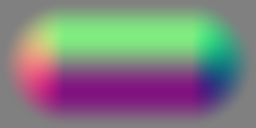
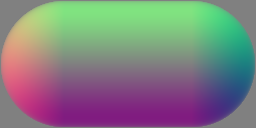
feat(ui): refract the scene through clear glass while preserving foreground ink

diff --git a/src/glass-controls.css b/src/glass-controls.css
@@ -1,7 +1,6 @@
-/* Last material layer: optical controls in either theme, with independently
-   bounded caps for glyph refraction. Information cards never get overlays. */
-:root { --control-glass-fill: rgb(250 255 253 / .07); --control-glass-edge: rgb(255 255 255 / .96); }
-html[data-theme='dark'] { --control-glass-fill: rgb(32 60 70 / .12); --control-glass-edge: rgb(224 255 248 / .72); }
+/* Clear convex material: the scene bends behind the surface; ink stays above it. */
+:root { --control-glass-fill: rgb(255 255 255 / .08); --control-glass-edge: rgb(255 255 255 / .85); }
+html[data-theme='dark'] { --control-glass-fill: rgb(24 40 45 / .14); --control-glass-edge: rgb(245 255 252 / .6); }
 :is(html:root #root,body .choice-picker-layer) [data-glass-content] {
   -webkit-backdrop-filter: none; backdrop-filter: none; filter: none;
   background-image: none; box-shadow: none;
@@ -10,18 +9,15 @@ html[data-theme='dark'] { --control-glass-fill: rgb(32 60 70 / .12); --control-g
   color: var(--glass-ink);
   border-radius: var(--control-glass-radius,999px);
   background-color: var(--control-glass-fill);
-  background-image: radial-gradient(ellipse at 24% -40%,rgb(255 255 255 / .16),transparent 64%),
-    linear-gradient(165deg,rgb(255 255 255 / .06),transparent 40% 76%,rgb(255 255 255 / .05));
-  border: 1px solid var(--glass-border);
-  box-shadow: inset 0 2px 2px -1px var(--control-glass-edge),
-    inset 2px 0 3px -2px var(--control-glass-edge),
-    inset -1px -2px 3px -2px var(--control-glass-edge),inset 0 -5px 6px -5px var(--control-glass-edge),
-    0 2px 2px rgb(12 35 35 / .2),0 7px 13px -6px rgb(12 35 35 / .35);
-  -webkit-backdrop-filter: var(--glass-lens-filter,blur(1px) saturate(1.08));
-  backdrop-filter: var(--glass-lens-filter,blur(1px) saturate(1.08));
+  background-image: linear-gradient(165deg,rgb(255 255 255 / .16),rgb(255 255 255 / .025) 38% 70%,rgb(255 255 255 / .1));
+  border: 1px solid color-mix(in srgb,var(--control-glass-edge) 65%,var(--glass-border));
+  box-shadow: inset 0 1px 1px var(--control-glass-edge),
+    inset 1px 0 1px rgb(255 255 255 / .3),inset 0 -1px 1px rgb(15 36 37 / .14),
+    0 1px 2px rgb(12 35 35 / .06),0 5px 12px -6px rgb(12 35 35 / .22);
+  -webkit-backdrop-filter: var(--glass-lens-filter,saturate(1)) blur(.65px) saturate(1.04);
+  backdrop-filter: var(--glass-lens-filter,saturate(1)) blur(.65px) saturate(1.04);
 }
-/* Refraction belongs to the backdrop. Keep idle text out of the sampling pass;
-   a shallow optical cap is only visible during direct interaction. */
+/* A reflection may cross the surface, but no optical overlay samples the label. */
 html:root #root [data-glass-position='relative'] { position: relative; }
 html:root #root [data-glass-control][data-glass-face] {
   isolation: isolate;
@@ -74,10 +70,9 @@ html:root #root .hj-menu-trigger[data-glass-control] {
   --control-glass-fill: rgb(250 255 253 / .09);
   background-color: var(--control-glass-fill);
   border-color: rgb(210 233 231 / .7);
-  box-shadow: inset 0 2px 2px -1px var(--control-glass-edge),
-    inset 1px 0 2px rgb(255 255 255 / .5),
-    inset -1px -2px 3px -2px rgb(145 196 190 / .65),
-    0 2px 3px rgb(12 35 35 / .16), 0 7px 14px -7px rgb(12 35 35 / .32);
+  box-shadow: inset 0 1px 1px var(--control-glass-edge),
+    inset 1px 0 1px rgb(255 255 255 / .3),inset 0 -1px 1px rgb(15 36 37 / .14),
+    0 1px 2px rgb(12 35 35 / .06),0 5px 12px -6px rgb(12 35 35 / .22);
   transition: scale 420ms cubic-bezier(.2,1.5,.35,1), box-shadow 200ms ease;
 }
 html:root #root .hj-menu-trigger[data-glass-control]:is(:hover,.is-open) {
@@ -100,20 +95,19 @@ html[data-theme='dark']:root #root .hj-menu-trigger[data-glass-control] {
   }
 }
 
-/* RGB splitting and colored rim light are transient; the idle lens stays clear. */
+/* Input deepens background refraction; the light stays neutral like clear glass. */
 html:root #root [data-glass-control][data-glass-interacting]:not([data-glass-exclude]) {
-  -webkit-backdrop-filter: var(--glass-lens-active-filter,none);
-  backdrop-filter: var(--glass-lens-active-filter,none);
+  -webkit-backdrop-filter: var(--glass-lens-active-filter,saturate(1)) blur(.65px) saturate(1.04);
+  backdrop-filter: var(--glass-lens-active-filter,saturate(1)) blur(.65px) saturate(1.04);
 }
 html:root #root [data-glass-control][data-glass-face][data-glass-interacting] {
-  -webkit-backdrop-filter: var(--glass-lens-active-filter,none);
-  backdrop-filter: var(--glass-lens-active-filter,none);
+  -webkit-backdrop-filter: var(--glass-lens-active-filter,saturate(1)) blur(.65px) saturate(1.04);
+  backdrop-filter: var(--glass-lens-active-filter,saturate(1)) blur(.65px) saturate(1.04);
 }
 html:root #root [data-glass-control][data-glass-face][data-glass-interacting]::after {
-  -webkit-backdrop-filter: var(--glass-face-active-filter,none);
-  backdrop-filter: var(--glass-face-active-filter,none);
-  background: radial-gradient(ellipse at 14% 12%,rgb(155 215 229 / .12),transparent 35%),
-    radial-gradient(ellipse at 88% 92%,rgb(239 200 172 / .10),transparent 32%);
+  -webkit-backdrop-filter: none;
+  backdrop-filter: none;
+  background: radial-gradient(ellipse at 24% -15%,rgb(255 255 255 / .06),transparent 60%);
 }
 /* Transaction actions need a stable contrast pair even when the common glass
    material loads after wallet styles. Their labels never pass through a lens. */

diff --git a/src/components/ui/LiquidTabList.css b/src/components/ui/LiquidTabList.css
@@ -35,15 +35,14 @@
 #root .liquid-tabs > button[role='tab']:disabled { opacity: .4; cursor: not-allowed; }
 #root .liquid-tabs > .liquid-tabs__lens {
   position: absolute; left: 0; top: 0; pointer-events: none;
-  z-index: 3;
+  z-index: 1;
   box-sizing: border-box; border-radius: 999px; transform-origin: center; scale: 1; border: 1px solid #ffffff9c;
   background: radial-gradient(ellipse at var(--lens-light-x,22%) -40%,#ffffff10,transparent 63%),
     linear-gradient(165deg,#ffffff04,transparent 42% 82%,#ffffff08);
-  box-shadow: inset 0 1px 1px #ffffffb8, inset 1px 0 2px -1px #e1fffaa0,
-    inset -1px -1px 2px -1px #ffffff85, inset 0 -3px 4px -3px #ffffff90,
-    0 2px 2px #082e273d, 0 5px 9px -4px #082e2766;
-  -webkit-backdrop-filter: none;
-  backdrop-filter: none;
+  box-shadow: inset 0 1px 1px #ffffffcc,inset 1px 0 1px #ffffff50,
+    inset 0 -1px 1px #082e2724,0 3px 8px -4px #082e2738;
+  -webkit-backdrop-filter: var(--glass-lens-filter,saturate(1)) blur(.65px) saturate(1.04);
+  backdrop-filter: var(--glass-lens-filter,saturate(1)) blur(.65px) saturate(1.04);
 }
 #root .liquid-tabs[data-lens-ready] > .liquid-tabs__lens {
   transition: transform 460ms var(--glass-spring,cubic-bezier(.2,.8,.2,1)),width 460ms var(--glass-spring,cubic-bezier(.2,.8,.2,1)),height 260ms ease,scale 300ms var(--glass-spring,cubic-bezier(.2,.8,.2,1));
@@ -75,17 +74,16 @@ html[data-theme='dark'] #root .liquid-tabs { --tabs-track: #214a43; --tabs-track
 /* The lens only rises above the rail during a press, drag or click pulse. */
 #root .liquid-tabs[data-lens-engaged] > .liquid-tabs__lens {
   scale: 1.025 1.1;
-  -webkit-backdrop-filter: var(--glass-lens-active-filter,saturate(1.08));
-  backdrop-filter: var(--glass-lens-active-filter,saturate(1.08));
-  box-shadow: inset 0 1px 2px #ffffffb8,inset -1px -2px 3px -2px #ffffff90,
-    0 3px 3px #092c2738,0 8px 16px -6px #092c2760;
+  -webkit-backdrop-filter: var(--glass-lens-active-filter,saturate(1)) blur(.65px) saturate(1.04);
+  backdrop-filter: var(--glass-lens-active-filter,saturate(1)) blur(.65px) saturate(1.04);
+  box-shadow: inset 0 1px 1px #ffffffdd,inset 0 -1px 1px #082e2730,0 5px 12px -5px #092c2745;
 }
 #root .liquid-tabs[data-lens-dragging] > .liquid-tabs__lens { transition: scale 180ms ease; }
 @media(prefers-reduced-motion:reduce) {
   #root .liquid-tabs[data-lens-engaged] > .liquid-tabs__lens { scale: 1; }
 }
 
-/* Reflections are restrained so refracted glyphs stay readable through the clear core. */
+/* Neutral rim glints follow the curved surface, below the label plane. */
 #root .liquid-tabs__lens::before {
   content: ''; position: absolute; inset: 0; border-radius: inherit; pointer-events: none;
   border: 1px solid transparent; border-top-color: #ffffff9c; border-left-color: #ffffff3d; border-right-color: #ffffff20;
@@ -102,15 +100,16 @@ html[data-theme='dark'] #root .liquid-tabs { --tabs-track: #214a43; --tabs-track
 }
 
 #root .liquid-tabs > .liquid-tabs__lens[data-glass-interacting] {
-  -webkit-backdrop-filter: var(--glass-lens-active-filter,none);
-  backdrop-filter: var(--glass-lens-active-filter,none);
+  -webkit-backdrop-filter: var(--glass-lens-active-filter,saturate(1)) blur(.65px) saturate(1.04);
+  backdrop-filter: var(--glass-lens-active-filter,saturate(1)) blur(.65px) saturate(1.04);
 }
 #root .liquid-tabs[data-lens-engaged] > .liquid-tabs__lens::before,
 #root .liquid-tabs > .liquid-tabs__lens[data-glass-interacting]::before {
-  background: radial-gradient(ellipse 44% 3px at var(--lens-light-x,22%) 0%,#d9f6ff70,transparent),
-    radial-gradient(ellipse 35% 3px at 78% 100%,#ffe6cd40,transparent);
+  background: radial-gradient(ellipse 44% 3px at var(--lens-light-x,22%) 0%,#ffffff90,transparent),
+    radial-gradient(ellipse 35% 3px at 78% 100%,#ffffff38,transparent);
 }
 @media(forced-colors:active),(prefers-reduced-transparency:reduce),(prefers-contrast:more) {
+  #root .liquid-tabs > .liquid-tabs__lens,
   #root .liquid-tabs > .liquid-tabs__lens[data-glass-interacting],
   #root .liquid-tabs[data-lens-engaged] > .liquid-tabs__lens {
     -webkit-backdrop-filter: none; backdrop-filter: none;

diff --git a/src/components/ui/LiquidGlassEffects.tsx b/src/components/ui/LiquidGlassEffects.tsx
@@ -10,8 +10,8 @@ import { nearestLensRatio } from './glassLensGeometry'
 import { createGlassLensFilters } from './glassLensFilters'
 
 const maps = { 1: circleMap, 2: shortMap, 3: lensMap, 4: longMap, 6: wideMap, 10: rowMap }
-// Backdrops and optional transparent caps sample real pixels. Foreground
-// refraction stays within each control; content cards never become lenses.
+// Only the backdrop samples the scene. Labels/icons sit above that plane;
+// information cards and conversation rows never become lenses.
 const controls = '[data-glass-optics],.liquid-tabs__lens,.theme-switch__thumb,button,summary,input[type="button"],input[type="submit"],input[type="reset"],.btn,.liquid-action,.pay-btn,.payment-button,.hj-action,.hj-post-cta,[role="button"],[role="menuitem"],select'
 const contentControls = '.pay-table__row,.map-explore-card,.map-listing-card,.marketplace-card__main,.food-card__media,.food-card__main,.food-kitchen-row,.food-kitchen-card,.marketplace-seller-card,.hj-account__item,.hj-mega__link,[role="menuitem"],[role="option"],.schedule-dt__day,[class*="__card"],[class*="__hit"],[class*="__photo"],[class*="__thumbnail"],[class*="__image"],[class*="__person"],[role="tab"]'
 
@@ -50,13 +50,6 @@ export function LiquidGlassEffects() {
           const ids = [rest, active]
           element.style.setProperty('--glass-lens-filter', `url("#${rest}")`)
           element.style.setProperty('--glass-lens-active-filter', `url("#${active}")`)
-          if (element.hasAttribute('data-glass-face')) {
-            const face = bank.acquire(w, h, ratio, 'control-face')
-            const faceActive = bank.acquire(w, h, ratio, 'control-face-active')
-            ids.push(face, faceActive)
-            element.style.setProperty('--glass-face-filter', `url("#${face}")`)
-            element.style.setProperty('--glass-face-active-filter', `url("#${faceActive}")`)
-          }
           release(element)
           leases.set(element, ids)
         })
@@ -75,8 +68,8 @@ export function LiquidGlassEffects() {
         }
         if (!lens) {
           element.dataset.glassControl = ''
-          // Keep existing icon/AI pseudo-elements intact. Replaced controls
-          // (select/input) cannot host an optical face.
+          // Keep existing icon/AI pseudo-elements intact. This face is a faint
+          // reflection only; it never filters or samples foreground labels.
           if (element.matches('button,a,summary') && !element.matches('.ai-spectrum-button')
             && ['none', 'normal'].includes(getComputedStyle(element, '::after').content)) {
             element.dataset.glassFace = ''
@@ -101,7 +94,7 @@ export function LiquidGlassEffects() {
       cancelAnimationFrame(frame)
       resize.disconnect()
       mutations.disconnect()
-      observed.forEach(element => { element.style.removeProperty('--glass-lens-filter'); element.style.removeProperty('--glass-lens-active-filter'); element.style.removeProperty('--glass-face-filter'); element.style.removeProperty('--glass-face-active-filter'); delete element.dataset.glassControl; delete element.dataset.glassFace; delete element.dataset.glassPosition })
+      observed.forEach(element => { element.style.removeProperty('--glass-lens-filter'); element.style.removeProperty('--glass-lens-active-filter'); delete element.dataset.glassControl; delete element.dataset.glassFace; delete element.dataset.glassPosition })
       pending.clear()
       leases.clear()
       bank.clear()

diff --git a/src/components/ui/glassLensFilters.ts b/src/components/ui/glassLensFilters.ts
@@ -17,11 +17,16 @@ export function createGlassLensFilters(defs: SVGDefsElement, maps: Record<number
     const image = document.createElementNS(svg, 'feImage')
     Object.entries({ href: maps[ratio], x: '0', y: '0', width: String(width), height: String(height),
       preserveAspectRatio: 'none', result: 'lens' }).forEach(([key, value]) => image.setAttribute(key, value))
+    // Smooth the encoded normal field, not foreground ink. This avoids stepping
+    // from 8-bit PNG quantization when a long capsule stretches the map.
+    const normals = document.createElementNS(svg, 'feGaussianBlur')
+    Object.entries({ in: 'lens', stdDeviation: '.8', edgeMode: 'duplicate', result: 'lens-normal' })
+      .forEach(([key, value]) => normals.setAttribute(key, value))
     const warp = document.createElementNS(svg, 'feDisplacementMap')
     // Equal pixel units on X and Y avoid aspect-dependent vertical stretching.
-    Object.entries({ in: 'SourceGraphic', in2: 'lens', scale: String(GLASS_LENS_DEPTHS[variant] * height),
+    Object.entries({ in: 'SourceGraphic', in2: 'lens-normal', scale: String(GLASS_LENS_DEPTHS[variant] * height),
       xChannelSelector: 'R', yChannelSelector: 'G' }).forEach(([key, value]) => warp.setAttribute(key, value))
-    filter.append(image, warp)
+    filter.append(image, normals, warp)
     defs.append(filter)
     filters.set(id, { node: filter, users: 1 })
     return id

diff --git a/src/components/ui/glassLensGeometry.ts b/src/components/ui/glassLensGeometry.ts
@@ -1,8 +1,8 @@
 export const GLASS_LENS_RATIOS = [1, 2, 3, 4, 6, 10] as const
-export type GlassLensVariant = 'control' | 'control-face' | 'control-active' | 'control-face-active' | 'tab-rest' | 'tab-active'
+export type GlassLensVariant = 'control' | 'control-active' | 'tab-rest' | 'tab-active'
 export function glassLensId(ratio: number, variant: GlassLensVariant = 'control') {
   const base = ratio === 3 ? 'homeji-liquid-lens' : `homeji-liquid-lens-${ratio}`
-  return variant === 'control-active' ? `${base}-control-active` : variant === 'control-face-active' ? `${base}-face-active` : variant === 'tab-rest' ? `${base}-tab` : variant === 'tab-active' ? `${base}-active` : variant === 'control-face' ? `${base}-face` : base
+  return variant === 'control-active' ? `${base}-control-active` : variant === 'tab-rest' ? `${base}-tab` : variant === 'tab-active' ? `${base}-active` : base
 }
 export function nearestLensRatio(width: number, height: number) {
   const aspect = width / Math.max(1, height)
@@ -10,6 +10,6 @@ export function nearestLensRatio(width: number, height: number) {
 }
 
 export const GLASS_LENS_DEPTHS: Record<GlassLensVariant, number> = {
-  control: .04, 'control-face': 0, 'tab-rest': 0,
-  'control-active': .065, 'control-face-active': .012, 'tab-active': .02,
+  control: .4, 'tab-rest': .4,
+  'control-active': .44, 'tab-active': .44,
 }
